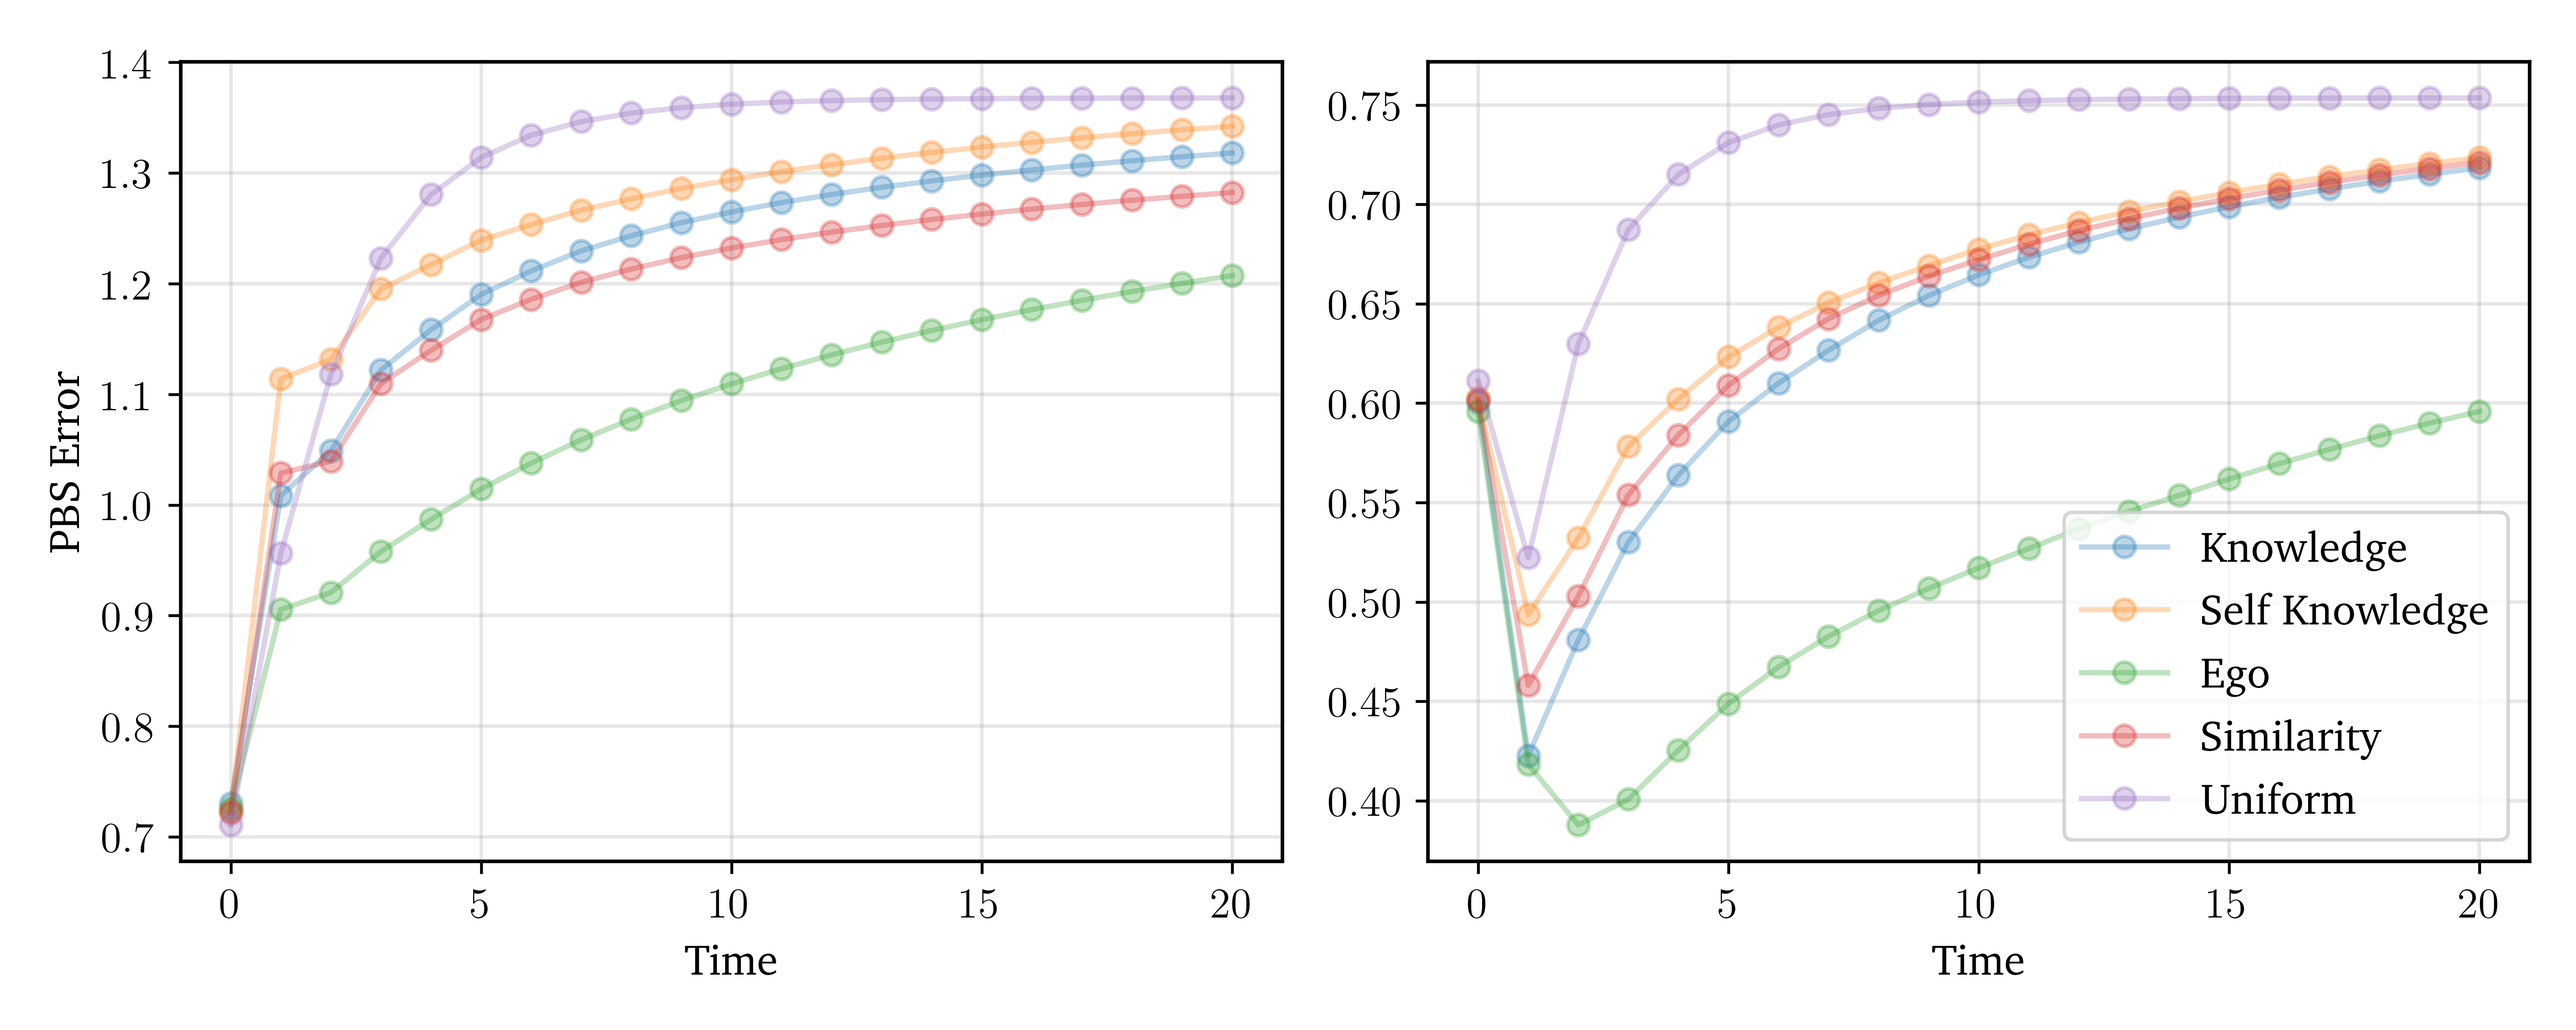
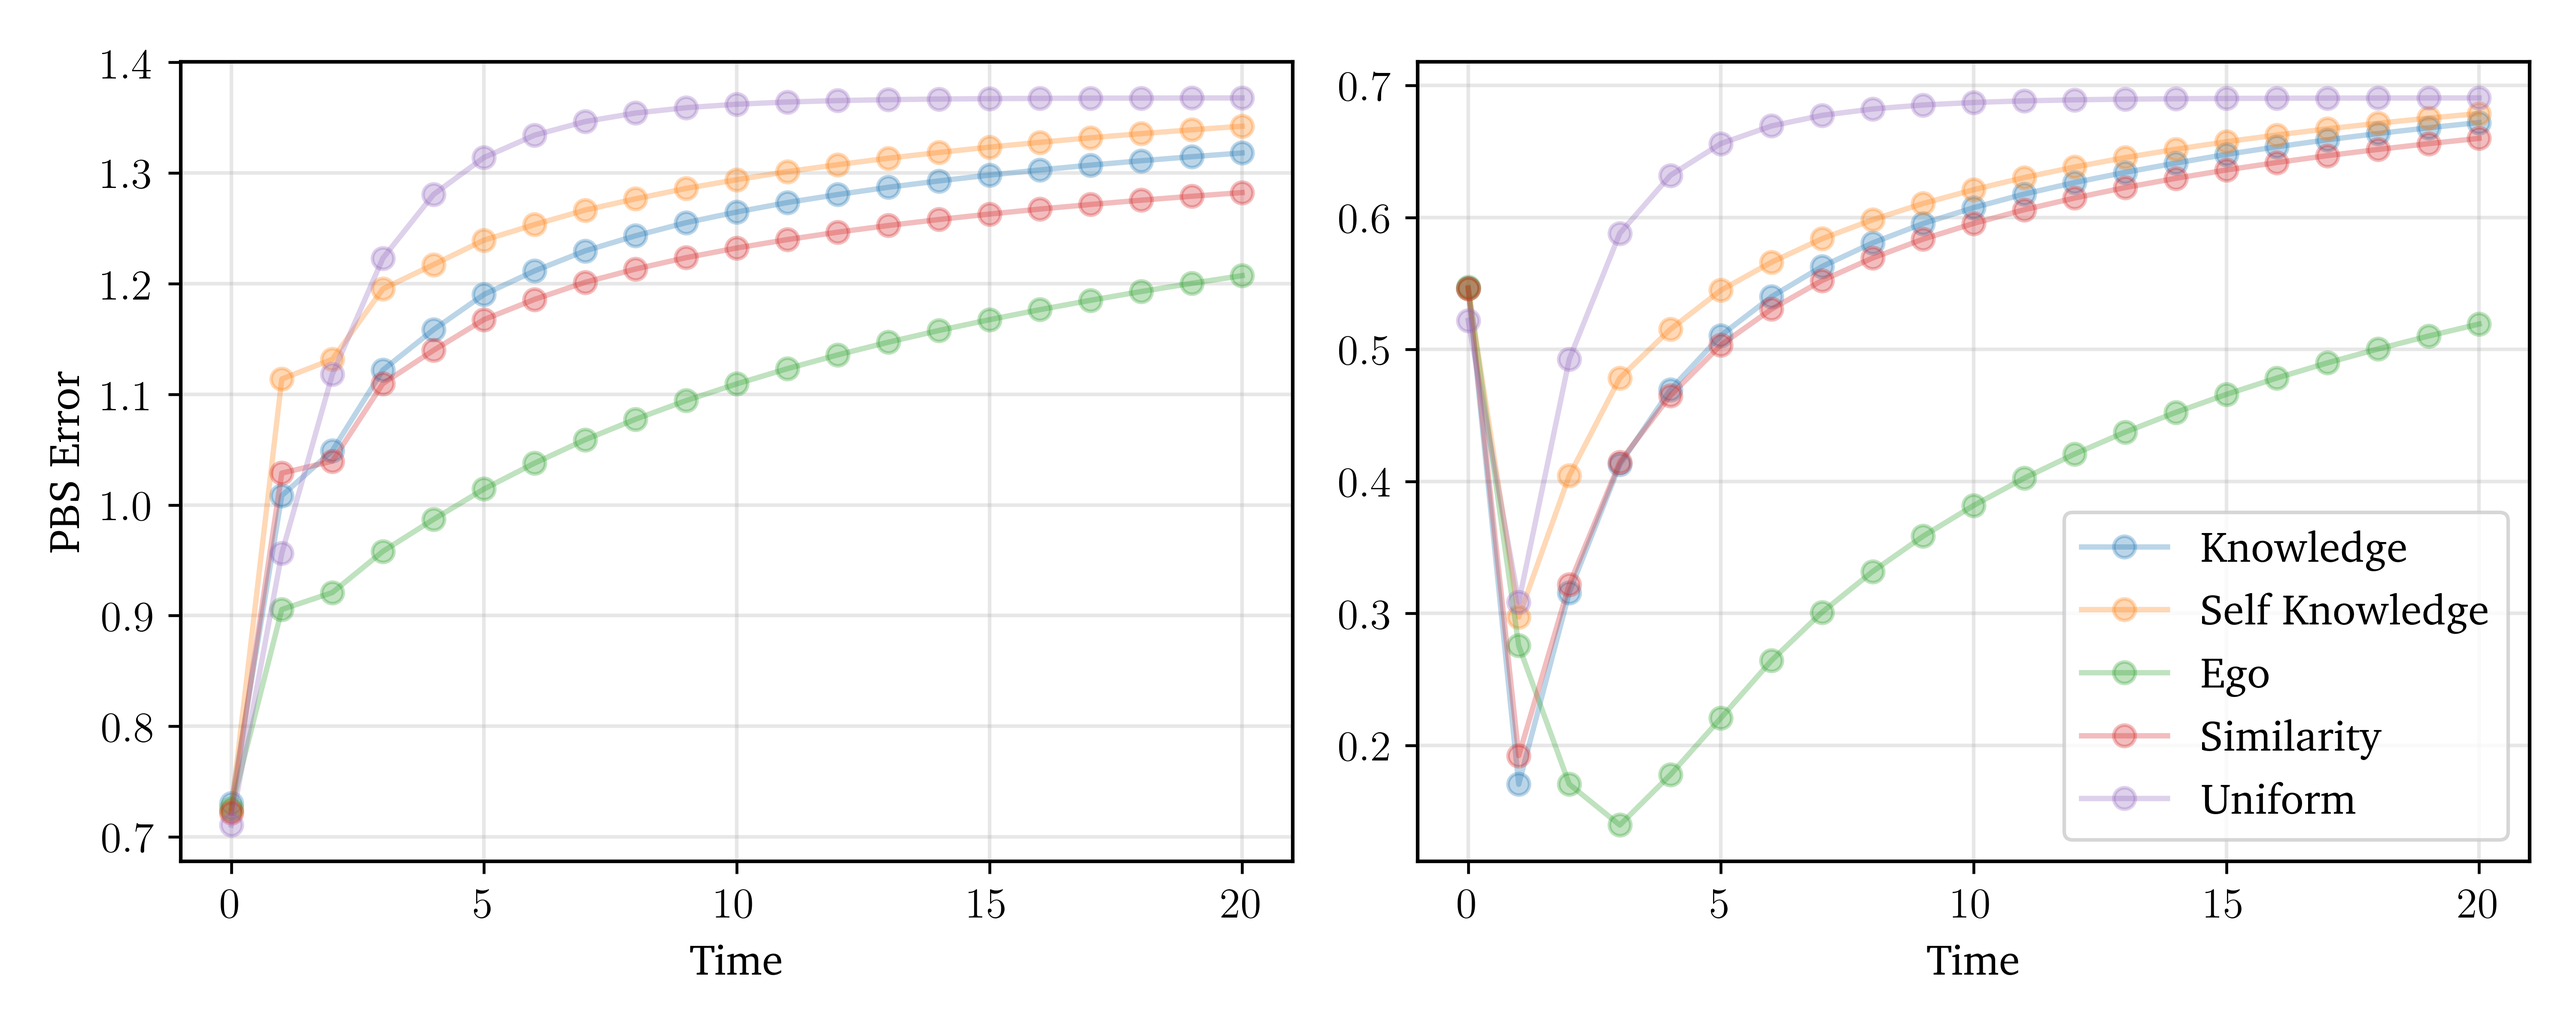
cleaned repo, updated README

diff --git a/src/scripts/degroot_analysis.py b/src/scripts/degroot_analysis.py
@@ -577,6 +577,7 @@ def _(np, opinion_delib_df, pd, sklearn, sm, time_str):
 
 @app.cell
 def _(
+    mlines,
     np,
     opinion_control_df,
     opinion_delib_df,
@@ -596,8 +597,8 @@ def _(
             if len(filtered) == 0:
                 continue
 
-            opinion_plotting_data = filtered.sample(n=min(100000, len(filtered)))
-            _, bins = pd.cut(opinion_plotting_data["PBS_start"], 80, retbins=True)
+            opinion_plotting_data = filtered.sample(n=min(10000, len(filtered)))
+            _, bins = pd.cut(opinion_plotting_data["PBS_start"], 10, retbins=True)
 
 
             pbs_start = opinion_plotting_data["PBS_start"]
@@ -608,29 +609,68 @@ def _(
             bin_means_sim = np.array([pbs_sim[digitized_start == i].mean() for i in range(1, len(bins))])
             bin_means_true = np.array([pbs_true[digitized_start == i].mean() for i in range(1, len(bins))])
 
-            ax.scatter(pbs_start, pbs_sim, alpha=0.1, color=sim_color, s=3, label="Simulated")
+            ax.scatter(pbs_start, pbs_sim, alpha=0.1, color="gray", s=3, label="Simulated")
             ax.scatter(pbs_start, pbs_true, alpha=0.05, color=true_color, s=3, label="True")
-            ax.scatter(bin_means_start, bin_means_sim, marker="1", s=100, color=sim_color, label="Binned Sim")
+            ax.scatter(bin_means_start, bin_means_sim, marker="1", s=100, color=sim_color, label="Binned Simulated")
             ax.scatter(bin_means_start, bin_means_true, marker="1", s=100,color=true_color, label="Binned True")
 
+            # Create custom legend handles with larger size and higher alpha
+            # Create proxy artists for just the faint points
+            custom_handles = {
+                "Simulated": mlines.Line2D([0], [0], marker='o', color='w',
+                                    markerfacecolor=sim_color, markersize=6, alpha=0.6),
+                "True": mlines.Line2D([0], [0], marker='o', color='w',
+                               markerfacecolor=true_color, markersize=6, alpha=0.6)
+            }
+        
             ax.set_xlabel(f"t = {time_val:.2f}")
             ax.set_title(f"Mean Absolute Error: {np.abs((bin_means_sim[~np.isnan(bin_means_sim)] - bin_means_true[~np.isnan(bin_means_true)])).mean():.2f}")
             ax.set_ylim((0,10))
             ax.grid(True)
 
+    # Create proxy handles for clearer legend
+    custom_handles = {
+        "Simulated": mlines.Line2D([0], [0], marker='o', color='w',
+                            markerfacecolor="gray", markersize=6, alpha=0.6),
+        "True": mlines.Line2D([0], [0], marker='o', color='w',
+                       markerfacecolor=true_color, markersize=6, alpha=0.6)
+    }
 
-    all_zero_delib = opinion_delib_df[opinion_delib_df["ego"] == 1]
+
+    all_zero_delib = opinion_delib_df
     # Usage
-    figure_opinion, axes = plt.subplots(2, 4, figsize=(16, 8))
+    figure_opinion, axes = plt.subplots(2, 4, figsize=(12, 6))
     axes = axes.ravel()
     plot_opinion(all_zero_delib, axes[:4])
     plot_opinion(opinion_control_df, axes[4:])
+
+    handles, labels = axes[0].get_legend_handles_labels()
+
+    # Replace faint entries with proxies
+    new_handles = [custom_handles.get(label, handle) for label, handle in zip(labels, handles)]
+
+    figure_opinion.legend(
+        handles=new_handles, labels=labels,
+        loc='lower center',
+        ncol=4,
+        bbox_to_anchor=(0.5, -0.05)  # adjust vertical spacing
+    )
+
     axes[0].set_ylabel("Deliberation\n PBS")
     axes[4].set_ylabel("Control\n PBS")
     plt.tight_layout()
-    plt.savefig("figures/pbs_scores.png")
+    plt.savefig("figures/pbs_scores.png", bbox_inches="tight")
     plt.show()
-    return all_zero_delib, axes, figure_opinion, plot_opinion
+    return (
+        all_zero_delib,
+        axes,
+        custom_handles,
+        figure_opinion,
+        handles,
+        labels,
+        new_handles,
+        plot_opinion,
+    )
 
 
 @app.cell
@@ -640,7 +680,18 @@ def _(opinion_delib_df):
 
 
 @app.cell
-def _(all_zero_delib, np, pd, plt, sim_color, time_str, true_color):
+def _(
+    all_zero_delib,
+    labels,
+    mlines,
+    new_handles,
+    np,
+    pd,
+    plt,
+    sim_color,
+    time_str,
+    true_color,
+):
     def plot_change_in_opinion(opinion_df, axes):
         times = opinion_df[time_str].unique()
         times = np.sort(times)  # ensure consistency
@@ -651,8 +702,8 @@ def _(all_zero_delib, np, pd, plt, sim_color, time_str, true_color):
             if len(filtered) == 0:
                 continue
 
-            opinion_plotting_data = filtered.sample(n=min(100000, len(filtered)))
-            _, bins = pd.cut(opinion_plotting_data["PBS_start"], 80, retbins=True)
+            opinion_plotting_data = filtered.sample(n=min(10000, len(filtered)))
+            _, bins = pd.cut(opinion_plotting_data["PBS_start"], 10, retbins=True)
 
             # Prepare data
             pbs_start = opinion_plotting_data["PBS_start"]
@@ -664,25 +715,40 @@ def _(all_zero_delib, np, pd, plt, sim_color, time_str, true_color):
             bin_means_start = np.array([pbs_start[digitized_start == i].mean(skipna=True) for i in range(1, len(bins))])
             bin_means_sim = np.array([pbs_sim[digitized_start == i].mean(skipna=True) for i in range(1, len(bins))])
             bin_means_true = np.array([pbs_true[digitized_start == i].mean(skipna=True) for i in range(1, len(bins))])
-            ax.scatter(pbs_start, pbs_sim, alpha=0.05, color=sim_color, s=3, label="Simulated")
+            ax.scatter(pbs_start, pbs_sim, alpha=0.05, color="gray", s=3, label="Simulated")
             ax.scatter(pbs_start, pbs_true, alpha=0.05, color=true_color, s=3, label="True")
-            ax.scatter(bin_means_start, bin_means_sim, color=sim_color, label="Binned Sim")
-            ax.scatter(bin_means_start, bin_means_true, color=true_color, label="Binned True")
+            ax.scatter(bin_means_start, bin_means_sim, marker="1", s=100, color=sim_color, label="Binned Sim")
+            ax.scatter(bin_means_start, bin_means_true, marker="1", s=100, color=true_color, label="Binned True")
 
+            custom_handles = {
+                "Simulated": mlines.Line2D([0], [0], marker='o', color='w',
+                                    markerfacecolor="gray", markersize=6, alpha=0.6),
+                "True": mlines.Line2D([0], [0], marker='o', color='w',
+                               markerfacecolor=true_color, markersize=6, alpha=0.6)
+            }
             ax.set_xlabel(f"t = {time_val:.2f}")
             ax.set_title(f"Mean Absolute Error: {np.abs((bin_means_sim[~np.isnan(bin_means_sim)] - bin_means_true[~np.isnan(bin_means_true)])).mean():.2f}")
             ax.set_ylim((-3,3))
             ax.grid(True)
+        
 
-
-    # Usage
-    figure_opinion_change, axes_change = plt.subplots(1, 4, figsize=(16, 4))
+    # Create subplots
+    figure_opinion_change, axes_change = plt.subplots(1, 4, figsize=(12, 4))
     axes_change = axes_change.ravel()
-    figure_opinion_change
+
+    # Plotting
     plot_change_in_opinion(all_zero_delib, axes_change[:4])
     axes_change[0].set_ylabel("$\\Delta$PBS score")
+
+    # Add global legend at the bottom
+    figure_opinion_change.legend(
+        handles=new_handles, labels=labels,
+        loc='lower center',
+        ncol=4,
+        bbox_to_anchor=(0.5, -0.05)  # adjust vertical spacing
+    )
     plt.tight_layout()
-    plt.savefig("figures/change_pbs_scores.png")
+    plt.savefig("figures/change_pbs_scores.png", bbox_inches="tight")
     plt.show()
     return axes_change, figure_opinion_change, plot_change_in_opinion
 
@@ -703,7 +769,7 @@ def _(opinion_delib_df, time_str):
 @app.cell
 def _(np, opinion_delib_df, plot_errors, plt, time_str):
     def plot_errors_binned(opinion_df, ax):
-        bins = np.linspace(0, 10, 100)
+        bins = np.linspace(0, 10, 10)
 
         independent_variables = ['knowledge', 'selfknowledge', 'ego', 'similarity','uniform']
         for indep in independent_variables:
@@ -741,7 +807,7 @@ def _(np, opinion_delib_df, plot_errors, plt, time_str):
 @app.cell
 def _(np, opinion_delib_df, pd, plt, time_str):
     # Filter the DataFrame
-    # filtered_df = opinion_delib_df[opinion_delib_df["selfknowledge"]==0]
+    # filtered_df = opinion_delib_df[opinion_delib_df["ego"]== 1]
     filtered_df = opinion_delib_df
 
     # Create bins of width 0.5 for bias
@@ -757,7 +823,7 @@ def _(np, opinion_delib_df, pd, plt, time_str):
         .pivot(index="bias_bin", columns=time_str, values="PBS_error")
     )
     # Create the fig_imshowure
-    fig_imshow, ax_imshow = plt.subplots(figsize=(8, 6))  # Square figure
+    fig_imshow, ax_imshow = plt.subplots(figsize=(5, 4))  # Square figure
 
     # Show the heatmap
     cax_imshow = ax_imshow.imshow(im_show_bias_time_df.values, aspect='auto', origin='lower')
@@ -778,7 +844,7 @@ def _(np, opinion_delib_df, pd, plt, time_str):
     ax_imshow.set_ylabel("Bias")
 
     plt.tight_layout()
-    plt.savefig("figures/bias_time_imshow.png")
+    plt.savefig("figures/bias_time_imshow.png", dpi=600)
     plt.show()
     return (
         ax_imshow,
@@ -840,7 +906,7 @@ def _(opinion_delib_df, time_str):
             print(significant[["F", "PR(>F)"]])
         else:
             print("No significant effects after Bonferroni correction")
-        
+
         # Show uncorrected significant effects
         print(f"\nUncorrected significant effects (α = {alpha}):")
         uncorrected_sig = anova_table[anova_table["PR(>F)"] < alpha]
@@ -907,7 +973,7 @@ def _(data_topics_exp, np, plt, sim_color, time_str, true_color):
 
     def plot_opinion_topic(opinion_df, ax):
         times = opinion_df[time_str].unique()
-        time_val = np.sort(times)[20] 
+        time_val = np.sort(times)[4] 
 
         filtered = opinion_df[np.isclose(opinion_df[time_str], time_val)]
 
@@ -920,16 +986,16 @@ def _(data_topics_exp, np, plt, sim_color, time_str, true_color):
 
         x = np.arange(len(topics))  # positions for the bars
         width = 0.35  # width of the bars
-        ax.bar(x - width/2, abs(start- sim), width, label='Simulated', alpha=0.8, color=sim_color)
-        ax.bar(x + width/2, abs(start- true), width, label='True', alpha=0.8, color=true_color)
+        ax.bar(x - width/2, start- sim, width, label='Simulated', alpha=0.8, color=sim_color)
+        ax.bar(x + width/2, start- true, width, label='True', alpha=0.8, color=true_color)
 
         ax.set_ylabel('Average Absolute Change in PBS')
         ax.set_xticks(x)
         ax.set_xticklabels(topics, rotation=90)
         ax.legend()
-    
-    fig_topic, ax_topic = plt.subplots(1,1, figsize=(4,4))
-    plot_opinion_topic(data_topics_exp, ax_topic)
+
+    fig_topic, ax_topic = plt.subplots(1,1, figsize=(5,5))
+    plot_opinion_topic(data_topics_exp[data_topics_exp["bias"] < 0.4], ax_topic)
 
 
     plt.tight_layout()

diff --git a/README.md b/README.md
@@ -1,11 +1,15 @@
 # Deliberation and Meta Agreement
 
+Deliberation and Meta-Agreement is a simulation-based study of how structured
+deliberation can lead to meta-agreement and single-peaked preferences, based on
+adaptations of the DeGroot model and replication of Rad and Roy’s work.
+
 ## Installation
 
-This project uses [opam](https://opam.ocaml.org/) for all Ocaml's dependencies
+This project uses [opam](https://opam.ocaml.org/) (v2.3.0) for all Ocaml's dependencies
 and [dune](https://dune.build/) as its build system.
 [Uv](https://docs.astral.sh/uv/) is used for the python dependencies.
-Finally, [just](https://github.com/casey/just) is used to deal with running
+Finally, [just](https://github.com/casey/just) is used to streamline running
 building, and installing all software through one interface.
 The following recipes are provided:
 
@@ -16,15 +20,75 @@ just sync    # runs uv sync
 just install # Installs all ocaml dependencies
 ```
 
-Once your environment is properly setup, you should be able to run the
+Once your environment is properly set up, you should be able to run the
 following to build the Ocaml executable
 
 ```bash
 just build
 
 ```
+## Structure
+The repository has the following structure:
 
-Instead of `just build`, you can also directly run the simulation with the following
+```
+.
+├── configs/
+├── data/
+├── figures/
+├── graphs/
+├── results/
+├── src/
+├── justfile
+└── uv.lock
 
-```bash
-just run
+```
+
+* `configs/` – Configuration files (YAML) used for DeGroot model experiments
+* `data/` – The *America in One Room* dataset
+* `figures/` – All figures included in the accompanying thesis
+* `graphs/` – Graphs from the [Network Repository](https://networkrepository.com/), used to model trust matrices for the control group
+* `results/` – Output data from each simulation
+* `src/` – Contains the core OCaml and Python code for simulations and analysis
+* `justfile` – Recipe file for managing tasks using `just`
+* `uv.lock` – Lockfile for Python dependencies managed by `uv`
+
+
+
+## Rad and Roy experiments
+
+In order to generate the data for the Rad and Roy experiments you run the following command:
+
+```{bash}
+just run rad
+```
+
+This will generate all the data to generate the figures. This data is already
+contained within the repository. The figures can be generated using:
+
+```{bash}
+just vis
+```
+
+## Adapted DeGroot model
+
+All DeGroot based experiments require a configuration file in the YAML format.
+Those used for the thesis can be found in `configs/`. In order to run a single configuration file, run 
+
+```{bash}
+just run degroot {PATH/TO/FILE}
+```
+
+If multiple file need to be ran, this can be done using a pattern in the following command
+
+```{bash}
+just run_all "configs/*convergence*"
+```
+
+This runs all configuration files matching the given glob pattern. For example,
+use configs/*convergence* to run all convergence experiments.
+
+All statistics and data cleaning/analysis are done in `marimo` notebooks, which can be opened by running
+
+```{bash}
+uv run marimo edit
+```
